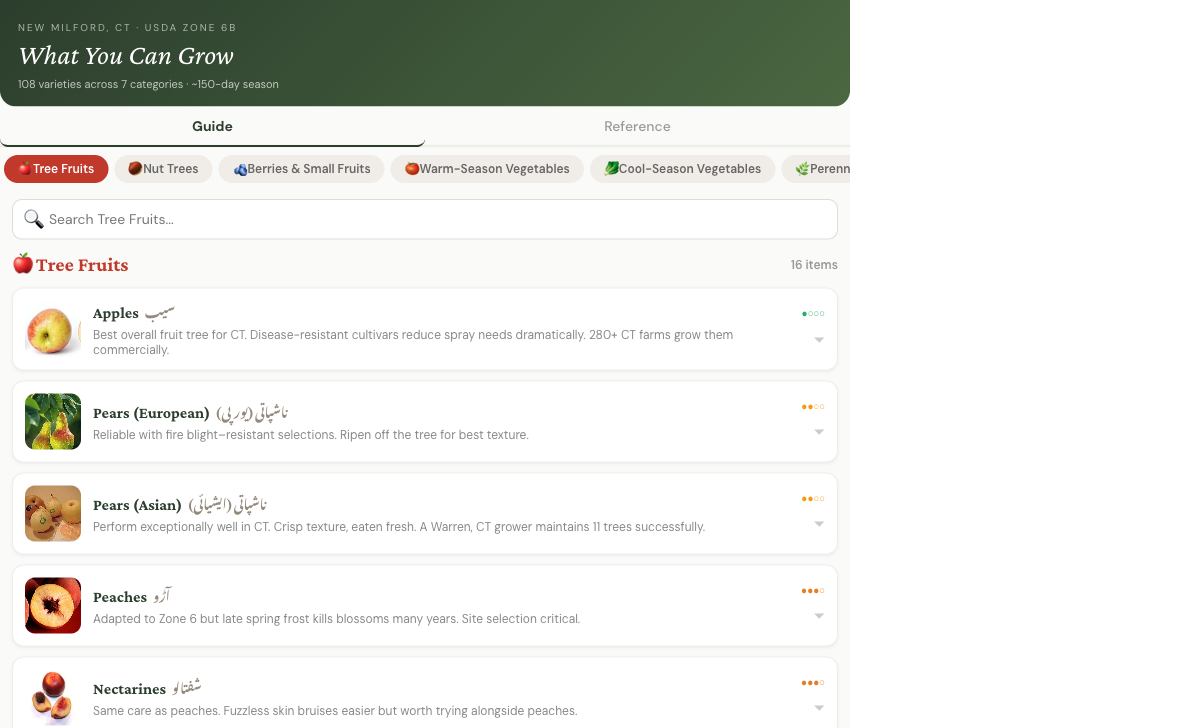
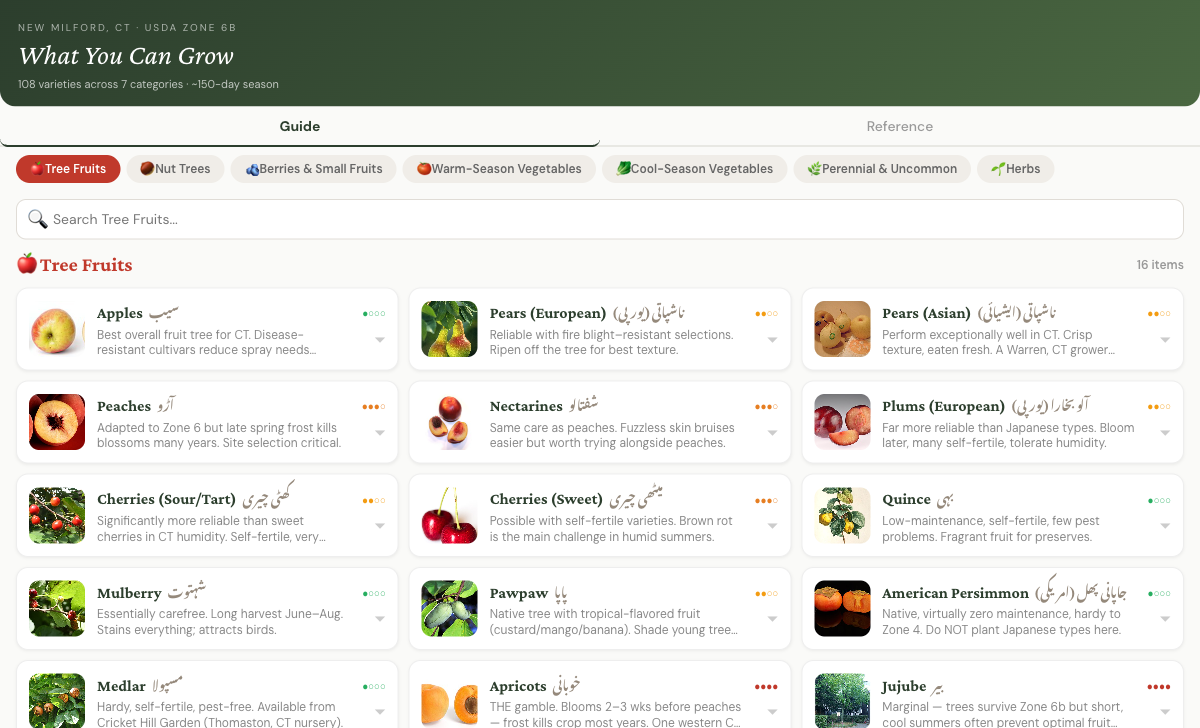
Add responsive full-width grid layout for desktop displays
- 1 column on mobile, 2 columns at 768px+, 3 columns at 1200px+
- Remove fixed maxWidth cap, use 1400px max for content area
- Update screenshot showing 3-column desktop layout

diff --git a/grow-guide/src/App.jsx b/grow-guide/src/App.jsx
@@ -257,7 +257,7 @@ function ScreenItemCard({ item, images }) {
   const d = DIFF[item.diff];
   const u = item.urdu;
   return (
-    <div className="screen-only" style={{ background: "#fff", borderRadius: 12, marginBottom: 10, boxShadow: "0 1px 3px rgba(0,0,0,0.06)", overflow: "hidden", border: "1px solid #eee", transition: "box-shadow 0.2s" }}>
+    <div className="screen-only" style={{ background: "#fff", borderRadius: 12, boxShadow: "0 1px 3px rgba(0,0,0,0.06)", overflow: "hidden", border: "1px solid #eee", transition: "box-shadow 0.2s", alignSelf: "start" }}>
       <div onClick={() => setOpen(!open)} style={{ display: "flex", alignItems: "center", gap: 12, padding: 12, cursor: "pointer", WebkitTapHighlightColor: "transparent" }}>
         <ItemImage item={item} images={images} size={56} />
         <div style={{ flex: 1, minWidth: 0 }}>
@@ -320,7 +320,7 @@ function TabBar({ activeTab, onTabChange, activeCategory, onCategoryChange }) {
   return (
     <div className="screen-only" style={{ position: "sticky", top: 0, zIndex: 100, background: "#fafaf8" }}>
       {/* Main tabs */}
-      <div style={{ display: "flex", borderBottom: "2px solid #e8e8e3", marginBottom: 0 }}>
+      <div style={{ display: "flex", borderBottom: "2px solid #e8e8e3", marginBottom: 0, maxWidth: 1400, margin: "0 auto" }}>
         {TABS.map(t => (
           <button key={t.id} onClick={() => onTabChange(t.id)} style={{
             flex: 1, padding: "10px 0", border: "none", background: "none", cursor: "pointer",
@@ -333,7 +333,7 @@ function TabBar({ activeTab, onTabChange, activeCategory, onCategoryChange }) {
       </div>
       {/* Category pills (scrollable) */}
       {activeTab === "guide" && (
-        <div ref={scrollRef} style={{ display: "flex", gap: 6, overflowX: "auto", padding: "8px 4px", WebkitOverflowScrolling: "touch", scrollbarWidth: "none", msOverflowStyle: "none" }}>
+        <div ref={scrollRef} style={{ display: "flex", gap: 6, overflowX: "auto", padding: "8px 16px", WebkitOverflowScrolling: "touch", scrollbarWidth: "none", msOverflowStyle: "none", maxWidth: 1400, margin: "0 auto" }}>
           {DATA.map((cat, i) => (
             <button key={cat.category} onClick={() => onCategoryChange(i)} style={{
               flexShrink: 0, padding: "6px 14px", borderRadius: 20, border: "none", cursor: "pointer",
@@ -588,7 +588,7 @@ export default function GrowGuide() {
     : activeCat.items;
 
   return (
-    <div style={{ fontFamily: "'DM Sans', -apple-system, sans-serif", background: "#fafaf8", color: "#333", maxWidth: 850, margin: "0 auto" }}>
+    <div style={{ fontFamily: "'DM Sans', -apple-system, sans-serif", background: "#fafaf8", color: "#333", margin: "0 auto" }}>
       <link href="https://fonts.googleapis.com/css2?family=Crimson+Pro:ital,wght@0,400;0,600;0,700;1,400&family=DM+Sans:wght@400;500;600;700&family=Noto+Nastaliq+Urdu:wght@400;700&display=swap" rel="stylesheet" />
       <style>{`
         .screen-only { display: block; }
@@ -596,6 +596,10 @@ export default function GrowGuide() {
         * { box-sizing: border-box; }
         /* Hide scrollbar on pill nav */
         .screen-only::-webkit-scrollbar { display: none; }
+        /* Responsive grid for item cards on wide screens */
+        .items-grid { display: grid; grid-template-columns: 1fr; gap: 10px; }
+        @media (min-width: 768px) { .items-grid { grid-template-columns: repeat(2, 1fr); } }
+        @media (min-width: 1200px) { .items-grid { grid-template-columns: repeat(3, 1fr); } }
         @media print {
           body { background: #fff !important; -webkit-print-color-adjust: exact; print-color-adjust: exact; }
           @page { margin: 0.4in 0.5in; size: letter; }
@@ -627,7 +631,7 @@ export default function GrowGuide() {
       <TabBar activeTab={activeTab} onTabChange={setActiveTab} activeCategory={activeCategory} onCategoryChange={setActiveCategory} />
 
       {/* Screen content */}
-      <div className="screen-only" style={{ padding: "4px 12px 80px" }}>
+      <div className="screen-only" style={{ padding: "4px 16px 80px", maxWidth: 1400, margin: "0 auto" }}>
         {activeTab === "guide" && (
           <>
             {/* Search */}
@@ -649,7 +653,9 @@ export default function GrowGuide() {
             {filteredItems.length === 0 && (
               <div style={{ textAlign: "center", padding: 40, color: "#bbb", fontSize: 14 }}>No items match "{search}"</div>
             )}
-            {filteredItems.map(item => <ScreenItemCard key={item.name} item={item} images={images} />)}
+            <div className="items-grid">
+              {filteredItems.map(item => <ScreenItemCard key={item.name} item={item} images={images} />)}
+            </div>
           </>
         )}
         {activeTab === "reference" && <QuickReference />}
@@ -657,7 +663,7 @@ export default function GrowGuide() {
 
       {/* ═══════ PRINT LAYOUT (hidden on screen, shown on print) ═══════ */}
       {/* Print Header */}
-      <div className="print-only" style={{ background: "linear-gradient(135deg, #2C3E2D, #4A6741)", color: "#fff", padding: "18px 22px", borderRadius: 8, marginBottom: 12 }}>
+      <div className="print-only" style={{ maxWidth: 850, margin: "0 auto", background: "linear-gradient(135deg, #2C3E2D, #4A6741)", color: "#fff", padding: "18px 22px", borderRadius: 8, marginBottom: 12 }}>
         <div style={{ fontSize: 9, letterSpacing: 2, textTransform: "uppercase", opacity: 0.7, marginBottom: 4 }}>New Milford, CT · USDA Zone 6b</div>
         <div style={{ fontFamily: "'Crimson Pro', Georgia, serif", fontSize: 32, fontWeight: 700, fontStyle: "italic", lineHeight: 1.1 }}>What You Can Grow</div>
         <div style={{ fontSize: 10, opacity: 0.75, marginTop: 6 }}>
